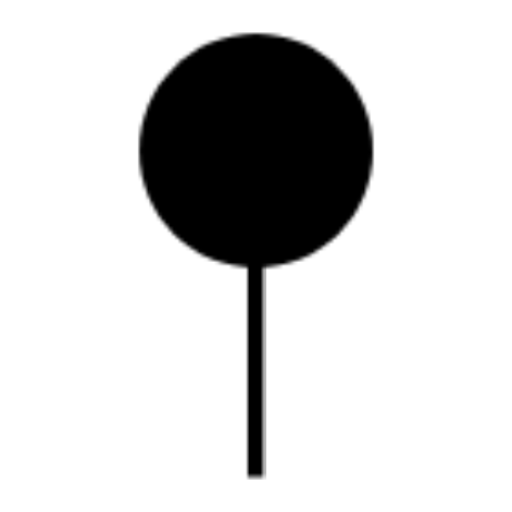
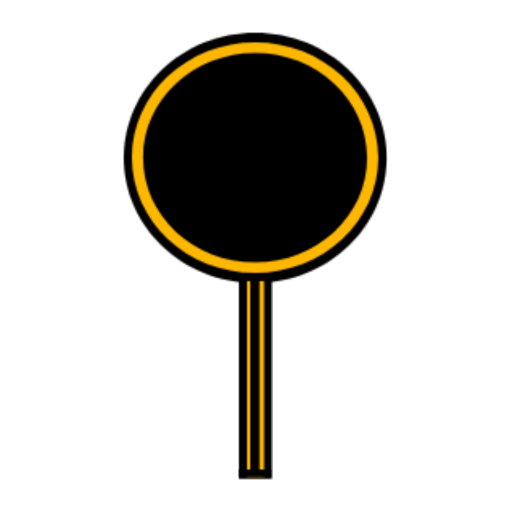
Fixed Update Account *Change Black Marker *Change Yellow Marker *Updated LandingActivity *Updated PhoneAuthentication

Changed region(s): [[0.2188, 0.0625, 0.7812, 0.9375]]

diff --git a/app/src/main/java/com/froura/develo4/passenger/UpdateAccountActivity.java b/app/src/main/java/com/froura/develo4/passenger/UpdateAccountActivity.java
@@ -1,13 +1,197 @@
 package com.froura.develo4.passenger;
 
+import android.content.Intent;
+import android.content.SharedPreferences;
+import android.os.CountDownTimer;
+import android.preference.PreferenceManager;
 import android.support.v7.app.AppCompatActivity;
 import android.os.Bundle;
+import android.text.Editable;
+import android.text.TextWatcher;
+import android.util.Log;
+import android.view.View;
+import android.widget.Button;
+import android.widget.EditText;
+
+import com.bumptech.glide.Glide;
+import com.google.firebase.auth.FirebaseAuth;
+import com.google.firebase.database.DatabaseReference;
+import com.google.firebase.database.FirebaseDatabase;
+
+import org.apache.commons.lang3.text.WordUtils;
+import org.json.JSONObject;
 
 public class UpdateAccountActivity extends AppCompatActivity {
+
+    private EditText mobnum_edit_txt;
+    private EditText email_edit_txt;
+    private Button submit_btn;
+    private Button change_trusted_btn;
+    private String new_trusted_id;
+
+    private String name;
+    private String email;
+    private String mobnum;
+    private String profpic;
+    private String trusted_id;
+    private String auth;
+    private CountDownTimer typing;
+
+    private boolean mobnum_error_empty = false;
+    private boolean mobnum_error_match = false;
+    private boolean email_error_empty = false;
+    private boolean email_error_match = false;
 
     @Override
     protected void onCreate(Bundle savedInstanceState) {
         super.onCreate(savedInstanceState);
         setContentView(R.layout.activity_update_account);
+
+        mobnum_edit_txt = findViewById(R.id.mobnum_edit_txt);
+        email_edit_txt = findViewById(R.id.email_edit_txt);
+        submit_btn = findViewById(R.id.submit_btn);
+        change_trusted_btn = findViewById(R.id.change_trusted_btn);
+        setDetails();
+
+        new_trusted_id = getIntent().getStringExtra("trusted_id");
+
+        typing = new CountDownTimer(1000, 1000) {
+            @Override
+            public void onTick(long l) { }
+
+            @Override
+            public void onFinish() {
+                checkErrors();
+            }
+        };
+
+        mobnum_edit_txt.addTextChangedListener(new TextWatcher() {
+            @Override
+            public void beforeTextChanged(CharSequence charSequence, int i, int i1, int i2) { }
+
+            @Override
+            public void onTextChanged(CharSequence charSequence, int i, int i1, int i2) {
+                mobnum = mobnum_edit_txt.getText().toString().isEmpty() ? "" : mobnum_edit_txt.getText().toString();
+                typing.start();
+            }
+
+            @Override
+            public void afterTextChanged(Editable editable) { }
+        });
+
+        email_edit_txt.addTextChangedListener(new TextWatcher() {
+            @Override
+            public void beforeTextChanged(CharSequence charSequence, int i, int i1, int i2) { }
+
+            @Override
+            public void onTextChanged(CharSequence charSequence, int i, int i1, int i2) {
+                email = email_edit_txt.getText().toString().isEmpty() ? "" : email_edit_txt.getText().toString();
+                typing.start();
+            }
+
+            @Override
+            public void afterTextChanged(Editable editable) { }
+        });
+
+        submit_btn.setOnClickListener(new View.OnClickListener() {
+            @Override
+            public void onClick(View view) {
+                if(checkErrors())
+                    updateDatabase();
+            }
+        });
+
+        change_trusted_btn.setOnClickListener(new View.OnClickListener() {
+            @Override
+            public void onClick(View view) {
+                //Intent intent = new Intent(UpdateAccountActivity.this, ChangeTrustedActivity.class);
+                //startActivity(intent);
+            }
+        });
+    }
+
+    private boolean checkErrors() {
+        if(mobnum.isEmpty()) {
+            mobnum_error_empty = true;
+        } else {
+            mobnum_error_empty = false;
+        }
+
+        if(mobnum.matches("^(09|\\+639)\\d{9}$")) {
+            mobnum_error_match = false;
+        } else {
+            mobnum_error_match = true;
+        }
+
+        if(email.isEmpty()) {
+            email_error_empty = true;
+        } else {
+            email_error_empty = false;
+        }
+
+        if(email.matches("^[a-zA-Z0-9_+&*-]+(?:\\.[a-zA-Z0-9_+&*-]+)*@(?:[a-zA-Z0-9-]+\\.)+[a-zA-Z]{2,7}$")) {
+            email_error_match = false;
+        } else {
+            email_error_match = true;
+        }
+        Log.d("errors", mobnum_error_empty + " " + mobnum_error_match + " " + email_error_empty + " " + email_error_match);
+        putErrors();
+        return !(mobnum_error_empty && mobnum_error_match && email_error_empty && email_error_empty);
+    }
+
+    private void putErrors() {
+        if(mobnum_error_empty)
+            mobnum_edit_txt.setError("Mobile Number is required.", getResources().getDrawable(R.drawable.ic_warning_red_24dp));
+        else if(mobnum_error_match)
+            mobnum_edit_txt.setError("Not a valid Philippine Number.", getResources().getDrawable(R.drawable.ic_warning_red_24dp));
+
+        if(email_error_empty)
+            email_edit_txt.setError("Email is required.", getResources().getDrawable(R.drawable.ic_warning_red_24dp));
+        else if(email_error_match)
+            email_edit_txt.setError("Not a valid Email Address.", getResources().getDrawable(R.drawable.ic_warning_red_24dp));
+
+        if(!(mobnum_error_empty && mobnum_error_match)) {
+          mobnum_edit_txt.setError(null);
+        } else if(!(email_error_empty && email_error_empty)) {
+          email_edit_txt.setError(null);
+        }
+    }
+
+    private void updateDatabase() {
+        DatabaseReference pssngrdetails = FirebaseDatabase.getInstance().getReference("users/passenger/" + FirebaseAuth.getInstance().getUid());
+        pssngrdetails.child("mobnum").setValue(mobnum);
+        pssngrdetails.child("email").setValue(email);
+        pssngrdetails.child("profile_pic").setValue(profpic);
+        pssngrdetails.child("trusted").setValue(new_trusted_id != null ? trusted_id : new_trusted_id);
+        saveUserDetails();
+    }
+
+    private void setDetails() {
+        SharedPreferences sharedPref = PreferenceManager.getDefaultSharedPreferences(getApplicationContext());
+        String JSON_DETAILS_KEY = "userDetails";
+        String userDetails = sharedPref.getString(JSON_DETAILS_KEY, "{ \"name\" : NULL }");
+        try {
+            JSONObject jsonObject = new JSONObject(userDetails);
+            if(!jsonObject.getString("name").equals("NULL")) {
+                name = jsonObject.getString("name");
+                email = jsonObject.getString("email");
+                mobnum = jsonObject.getString("mobnum");
+                profpic = jsonObject.getString("profile_pic");
+                trusted_id = jsonObject.getString("trusted_id");
+                auth = jsonObject.getString("auth");
+                email_edit_txt.setText(email.equals("null") ? "" : email);
+                mobnum_edit_txt.setText(mobnum.equals("null") ? "" : mobnum);
+            }
+        } catch (Exception e) { }
+    }
+
+    private void saveUserDetails() {
+        SharedPreferences sharedPref = PreferenceManager.getDefaultSharedPreferences(getApplicationContext());
+        SharedPreferences.Editor editor = sharedPref.edit();
+        String JSON_DETAILS_KEY = "userDetails";
+        String jsonDetails = "{ \"name\" : \"" + WordUtils.capitalize(name.toLowerCase()) + "\", \"email\" : \"" + email + "\", \"mobnum\" : \"" + mobnum + "\", \"profile_pic\" : \"" + profpic + "\", \"trusted_id\" : " + (new_trusted_id != null ? trusted_id : new_trusted_id) + ", \"auth\" : \"" + auth + "\"}";
+        editor.putString(JSON_DETAILS_KEY, jsonDetails);
+        editor.apply();
+        finish();
     }
 }

diff --git a/app/src/main/java/com/froura/develo4/passenger/LandingActivity.java b/app/src/main/java/com/froura/develo4/passenger/LandingActivity.java
@@ -29,7 +29,6 @@ import android.view.ViewGroup;
 import android.view.animation.Animation;
 import android.view.animation.Transformation;
 import android.widget.Button;
-import android.widget.EditText;
 import android.widget.ImageButton;
 import android.widget.ImageView;
 import android.widget.TextView;
@@ -128,6 +127,7 @@ public class LandingActivity extends AppCompatActivity
     private int noDriver = -1;
     private boolean cameraUpdated = false;
     private boolean isTraffic = false;
+    private boolean fromUpdate = false;
     final int LOCATION_REQUEST_CODE = 1;
 
     //User Details
@@ -222,7 +222,7 @@ public class LandingActivity extends AppCompatActivity
             bookBtn.setOnClickListener(new View.OnClickListener() {
                 @Override
                 public void onClick(View view) {
-                    prepareBooking();
+                    prepareBooking(false);
                 }
             });
         } else {
@@ -352,6 +352,7 @@ public class LandingActivity extends AppCompatActivity
     }
 
     private void setAccountProfile() {
+        setDetails();
         final ProgressDialog progressDialog = new ProgressDialog(this);
         progressDialog.setCancelable(false);
         progressDialog.setMessage("Fetching Data...");
@@ -359,9 +360,9 @@ public class LandingActivity extends AppCompatActivity
         progressDialog.setCancelable(false);
         progressDialog.show();
         final TextView nameTxtVw = findViewById(R.id.name_txt_vw);
-        final TextView emailTxtVw = findViewById(R.id.email_txt_vw);
-        final TextView mobnumTxtVw = findViewById(R.id.mobnum_txt_vw);
-        final TextView trustedTxtVw = findViewById(R.id.trusted_txt_vw);
+        final TextView emailTxtVw = findViewById(R.id.email_edit_txt);
+        final TextView mobnumTxtVw = findViewById(R.id.mobnum_edit_txt);
+        final TextView trustedTxtVw = findViewById(R.id.change_trusted_btn);
         ImageView profpicImgVw = findViewById(R.id.profpic_img_vw);
         Button update = findViewById(R.id.update_btn);
 
@@ -373,6 +374,7 @@ public class LandingActivity extends AppCompatActivity
         update.setOnClickListener(new View.OnClickListener() {
             @Override
             public void onClick(View view) {
+                fromUpdate = true;
                 Intent intent = new Intent(LandingActivity.this, UpdateAccountActivity.class);
                 startActivity(intent);
             }
@@ -408,8 +410,8 @@ public class LandingActivity extends AppCompatActivity
 
     }
 
-    private void prepareBooking() {
-        if(checkDetails() == 1) {
+    private void prepareBooking(boolean notrusted) {
+        if(checkDetails() == 1 || notrusted) {
             Intent intent = new Intent(LandingActivity.this, FindNearbyDriverActivity.class);
             intent.putExtra("pickupName", pickupName);
             intent.putExtra("pickupLat", pickupLocation.latitude);
@@ -426,8 +428,16 @@ public class LandingActivity extends AppCompatActivity
             showSnackbarMessage(bookBtn, "Please set your Mobile Number.");
         } else if(checkDetails() == 2) {
             showSnackbarMessage(bookBtn, "Please set your Email Address.");
-        } else {
+        } else if(checkDetails() == -3) {
             showSnackbarMessage(bookBtn, "Please set your Mobile Number and Email Address.");
+        } else if(checkDetails() == -4) {
+            DialogCreator.create(this, "noTrusted")
+                    .setTitle("No Trusted Contact")
+                    .setMessage("Are you sure to proceed?")
+                    .setCancelable(false)
+                    .setPositiveButton("BOOK")
+                    .setNegativeButton("CANCEL")
+                    .show();
         }
     }
 
@@ -741,6 +751,9 @@ public class LandingActivity extends AppCompatActivity
                         new String[]{android.Manifest.permission.ACCESS_FINE_LOCATION},
                         LOCATION_REQUEST_CODE);
                 break;
+            case "noTrusted":
+                prepareBooking(true);
+                break;
         }
     }
 
@@ -800,6 +813,9 @@ public class LandingActivity extends AppCompatActivity
         }
         if(user_email.equals("null")) {
             return -2;
+        }
+        if(user_trusted_id.equals("null")) {
+            return -4;
         }
         return 1;
     }
@@ -867,5 +883,14 @@ public class LandingActivity extends AppCompatActivity
         // 1dp/ms
         a.setDuration((int)(initialHeight / v.getContext().getResources().getDisplayMetrics().density));
         v.startAnimation(a);
+    }
+
+    @Override
+    protected void onResume() {
+        super.onResume();
+        if(fromUpdate) {
+            setAccountProfile();
+            fromUpdate = false;
+        }
     }
 }

diff --git a/app/src/main/java/com/froura/develo4/passenger/PhoneAuthentication.java b/app/src/main/java/com/froura/develo4/passenger/PhoneAuthentication.java
@@ -104,8 +104,7 @@ public class PhoneAuthentication extends AppCompatActivity implements SuperTask.
                     verifCode.setError(null);
                     verifCode.setCompoundDrawablesWithIntrinsicBounds(0,0, 0,0);
                 } else {
-                    verifCode.setError("Code is required.");
-                    verifCode.setCompoundDrawablesWithIntrinsicBounds(0,0, R.drawable.ic_warning_red_24dp,0);
+                    verifCode.setError("Code is required.", getResources().getDrawable(R.drawable.ic_warning_red_24dp));
                 }
 
             }
